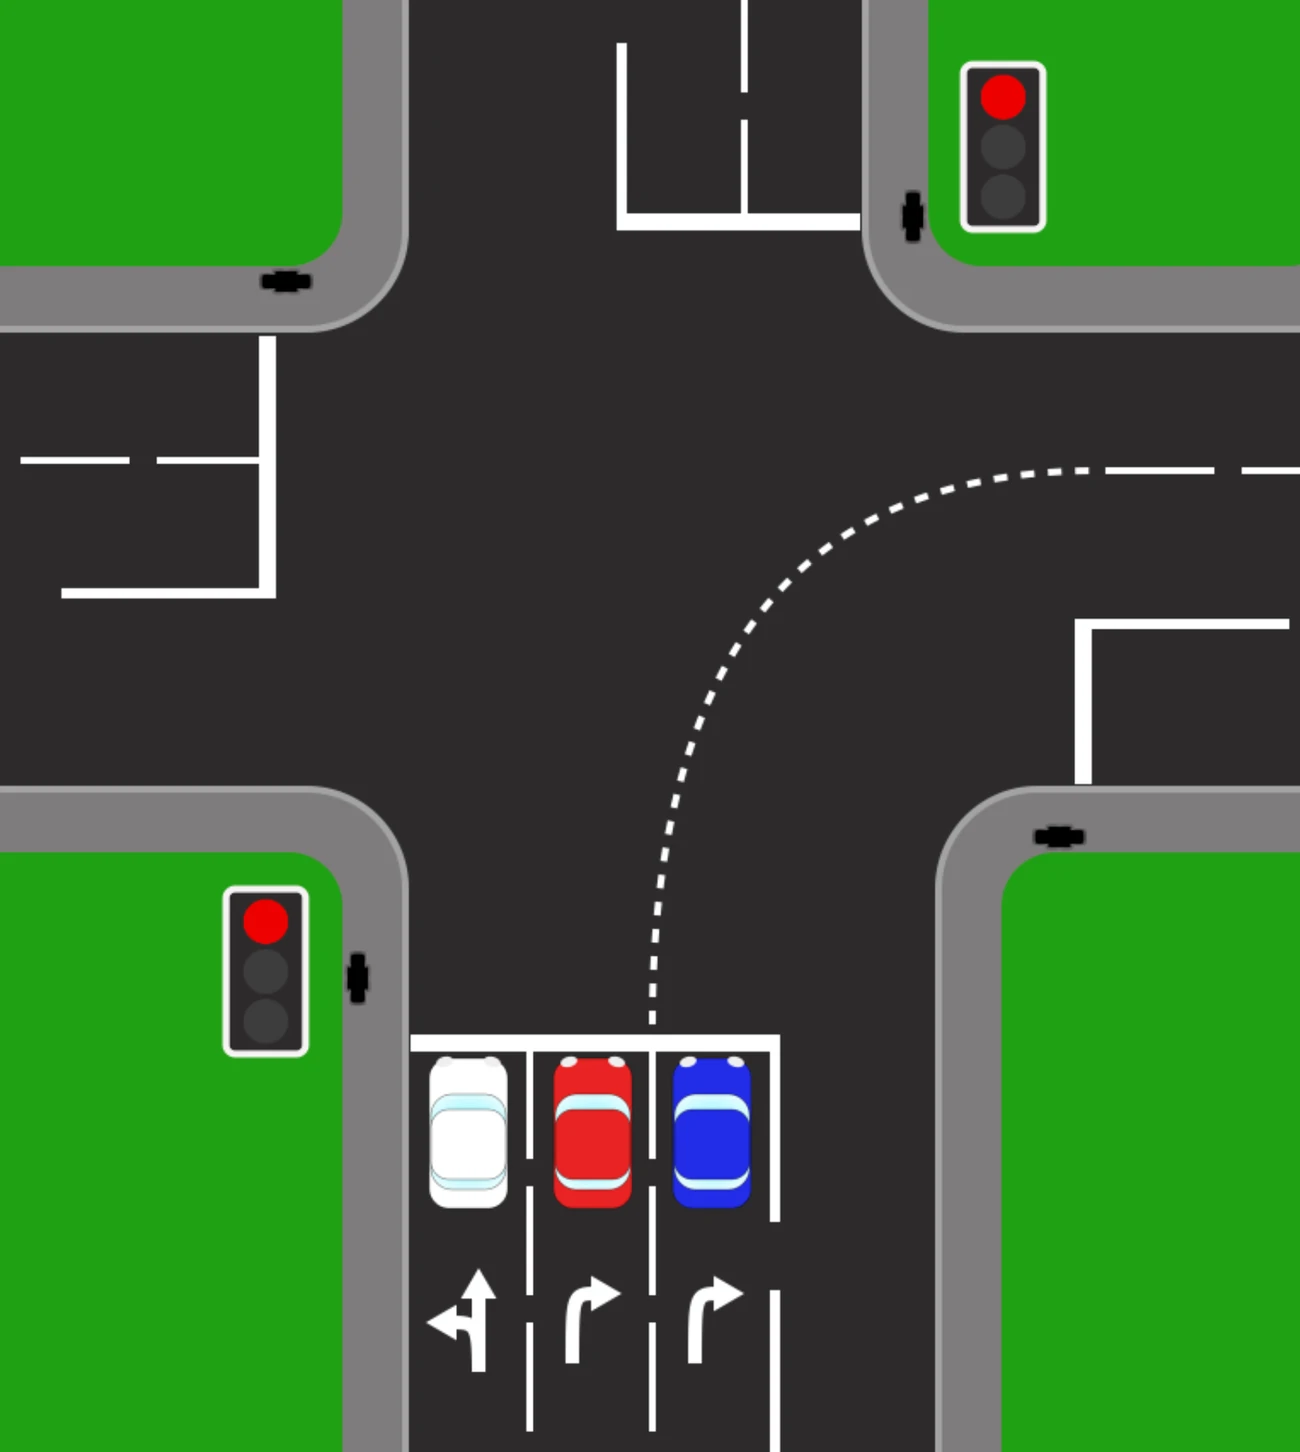
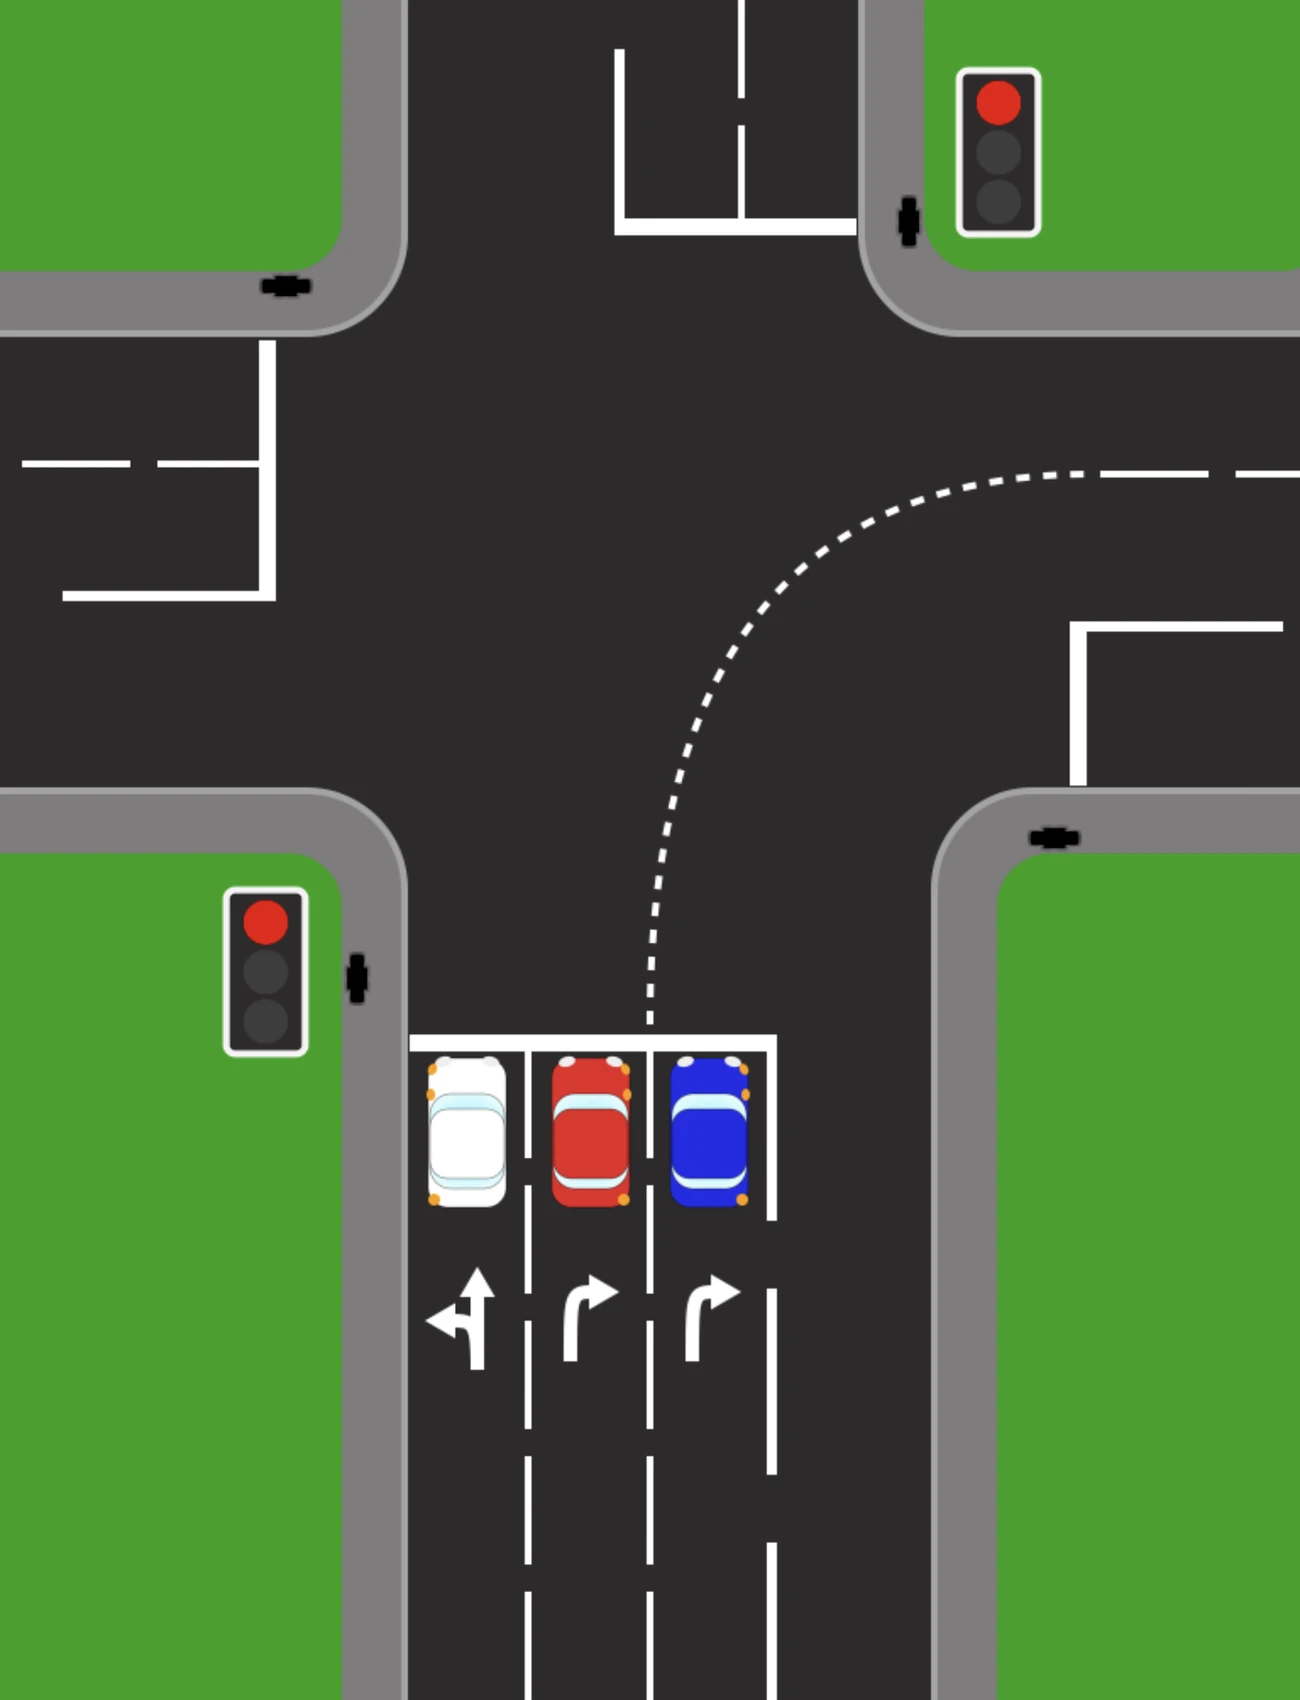
Replace the Double Right diagram and add a crop tool
The previous screenshot did not show the signals facing the waiting
cars, which is the point of the page. Same treatment as the others:
device chrome cropped, controls removed, both signals kept.

tools/crop_image.py trims an image that is already in place, in pixels
or percentages per edge, then rebuilds the manifest and the pages so
the width and height in the HTML follow the file - otherwise the old
dimensions stay in the markup and the layout jumps.

The image tools need Pillow, numpy and scipy, so adds a gitignored
.venv and tools/README.md explaining which commands need it. The build
and dev server remain plain stdlib.

diff --git a/lessons/guide/traffic-lights/left-filter/index.html b/lessons/guide/traffic-lights/left-filter/index.html
@@ -51,7 +51,7 @@
 <p>The blue car may go forward from the stop line on green, but even the left filter light does not grant prority at the give way line.</p>
 <p>This situation can seem counter-intuitive, because it is not usual to give priority to someone turning right, as in the case of the red car.</p>
 <p>It is important for the driver of the blue car to make at least one careful check before proceeding into the new road, including looking over the right shoulder if necessary to compensate for the car being angled towards the left.</p>
-<figure class="guide-figure"><img src="/assets/images/guide/traffic-lights/left-filter/left-filter-lane.webp" alt="A light-controlled junction with a separate left filter lane running behind a traffic island. A blue car waits in the filter lane with the filter signal beside it showing a green arrow, while a red car crosses the junction ahead." width="650" height="806" loading="lazy" decoding="async"></figure>
+<figure class="guide-figure"><img src="/assets/images/guide/traffic-lights/left-filter/left-filter-lane.webp" alt="A light-controlled junction with a separate left filter lane running behind a traffic island. A blue car waits in the filter lane with the filter signal beside it showing a green arrow, while a red car crosses the junction ahead." width="650" height="850" loading="lazy" decoding="async"></figure>
 
 <nav class="guide-pager" aria-label="Within this section"><a class="guide-pager__prev" href="/lessons/guide/traffic-lights/t-junction/"><span>Previous</span>T-Junction</a><a class="guide-pager__next" href="/lessons/guide/traffic-lights/double-right/"><span>Next</span>Double Right</a></nav>
     </main>

diff --git a/lessons/guide/traffic-lights/double-right/index.html b/lessons/guide/traffic-lights/double-right/index.html
@@ -49,7 +49,7 @@
       <h1>Double Right</h1>
 <p>When two lanes are provided for turning right, good lane discipline must be maintained throughout the turn. Be sure to indentify the correct lane to turn into, allowing space for others turning right next to you.</p>
 <p>There may or may not be guiding lines painted on the road to help with positioning. It&#x27;s helpful to be aware of the whole junction on approach, taking in as much information as possible about which lane goes where. This can help to avoid any surprises once the lights go green and everyone starts to move.</p>
-<figure class="guide-figure"><img src="/assets/images/guide/traffic-lights/double-right/double-right-turn-lanes.webp" alt="A light-controlled crossroads with two right-turn lanes. Arrows painted on the approach mark the lanes as left-and-ahead, right, and right; three cars wait at the stop line, and a dashed guide line curves across the junction." width="650" height="726" loading="lazy" decoding="async"></figure>
+<figure class="guide-figure"><img src="/assets/images/guide/traffic-lights/double-right/double-right-turn-lanes.webp" alt="A light-controlled crossroads with two right-turn lanes. Arrows painted on the approach mark the lanes as left-and-ahead, right, and right; three cars wait at the stop line with red signals facing them, and a dashed guide line curves across the junction from the right-turn lanes." width="650" height="850" loading="lazy" decoding="async"></figure>
 
 <nav class="guide-pager" aria-label="Within this section"><a class="guide-pager__prev" href="/lessons/guide/traffic-lights/left-filter/"><span>Previous</span>Left Filter</a></nav>
     </main>

diff --git a/lessons/guide/traffic-lights/turn-left/index.html b/lessons/guide/traffic-lights/turn-left/index.html
@@ -51,7 +51,7 @@
 <p>Where there is a side road on the left only, lanes can be used to keep traffic flowing efficiently. The right lane can be used for going ahead, leaving the left lane clear for those proceeding on the filter light (if there is one).</p>
 <p>When the left filter light goes off and only the round light is showing, all traffic is allowed to proceed, including those turning left.</p>
 <p>Always be aware of cyclists and other road users when turning.</p>
-<figure class="guide-figure"><img src="/assets/images/guide/traffic-lights/turn-left/turning-left-at-lights.webp" alt="A light-controlled junction from above. The signal on the corner shows red with a green left filter arrow lit beside it, so traffic turning left may go while everything else waits. A blue car is at the line and a yellow car crosses ahead of it." width="650" height="902" loading="lazy" decoding="async"></figure>
+<figure class="guide-figure"><img src="/assets/images/guide/traffic-lights/turn-left/turning-left-at-lights.webp" alt="A light-controlled junction from above. The signal on the corner shows red with a green left filter arrow lit beside it, so traffic turning left may go while everything else waits. A blue car is at the line and a yellow car crosses ahead of it." width="650" height="850" loading="lazy" decoding="async"></figure>
 
 <nav class="guide-pager" aria-label="Within this section"><a class="guide-pager__prev" href="/lessons/guide/traffic-lights/crossroads/"><span>Previous</span>Crossroads</a><a class="guide-pager__next" href="/lessons/guide/traffic-lights/turn-right/"><span>Next</span>Turn Right</a></nav>
     </main>

diff --git a/lessons/guide/traffic-lights/turn-right/index.html b/lessons/guide/traffic-lights/turn-right/index.html
@@ -49,7 +49,7 @@
       <h1>Turn Right</h1>
 <p>When turning right with no side road on the left, there is no need to worry about leaving space for oncoming traffic turning to their right.</p>
 <p>Even if the lanes are not marked with arrows, those going ahead would do well to stick to the left lane at this junction, to avoid getting stuck behind others waiting to turn right.</p>
-<figure class="guide-figure"><img src="/assets/images/guide/traffic-lights/turn-right/turning-right-at-lights.webp" alt="A light-controlled junction from above with the signal showing green. Cars are queued in two lanes on the approach road, and a side road opens to the right beyond the junction." width="650" height="866" loading="lazy" decoding="async"></figure>
+<figure class="guide-figure"><img src="/assets/images/guide/traffic-lights/turn-right/turning-right-at-lights.webp" alt="A light-controlled junction from above with the signal showing green. Cars are queued in two lanes on the approach road, and a side road opens to the right beyond the junction." width="650" height="850" loading="lazy" decoding="async"></figure>
 
 <nav class="guide-pager" aria-label="Within this section"><a class="guide-pager__prev" href="/lessons/guide/traffic-lights/turn-left/"><span>Previous</span>Turn Left</a><a class="guide-pager__next" href="/lessons/guide/traffic-lights/t-junction/"><span>Next</span>T-Junction</a></nav>
     </main>

diff --git a/lessons/guide/traffic-lights/t-junction/index.html b/lessons/guide/traffic-lights/t-junction/index.html
@@ -49,7 +49,7 @@
       <h1>T-Junction</h1>
 <p>On a T-junction, those turning right have no need to worry about oncoming traffic and can proceed as long as the lights are green.</p>
 <p>The filter lights control the flow of traffic, so road users can move in various directions without conflicting.</p>
-<figure class="guide-figure"><img src="/assets/images/guide/traffic-lights/t-junction/light-controlled-t-junction.webp" alt="A light-controlled T-junction from above. Two signals show a green filter arrow, and orange lines trace the paths of cars turning left and right out of the stem of the T." width="650" height="678" loading="lazy" decoding="async"></figure>
+<figure class="guide-figure"><img src="/assets/images/guide/traffic-lights/t-junction/light-controlled-t-junction.webp" alt="A light-controlled T-junction from above. Two signals show a green filter arrow, and orange lines trace the paths of cars turning left and right out of the stem of the T." width="650" height="850" loading="lazy" decoding="async"></figure>
 
 <nav class="guide-pager" aria-label="Within this section"><a class="guide-pager__prev" href="/lessons/guide/traffic-lights/turn-right/"><span>Previous</span>Turn Right</a><a class="guide-pager__next" href="/lessons/guide/traffic-lights/left-filter/"><span>Next</span>Left Filter</a></nav>
     </main>

diff --git a/tools/crop_image.py b/tools/crop_image.py
@@ -1,0 +1,55 @@
+#!/usr/bin/env python3
+"""Crop a guide image that is already in place, then refresh the manifest.
+
+Sizes may be pixels (120) or a percentage of that edge (10%). Only the edges
+you name are touched.
+
+  python3 tools/crop_image.py assets/images/guide/traffic-lights/turn-left/turning-left-at-lights.webp --top 12%
+  python3 tools/crop_image.py <path> --left 100 --right 100 --bottom 5%
+
+The width/height the page emits come from the file itself, so the manifest is
+rebuilt afterwards and the pages rewritten - otherwise the old dimensions would
+stay in the HTML and the layout would jump.
+
+This edits the shipped image. Re-running strip_app_controls.py from the
+original screenshot would overwrite it, so re-apply the crop if you do that.
+`git checkout <path>` restores the previous version.
+"""
+import argparse, os, subprocess, sys
+from PIL import Image
+
+def edge(value, extent):
+    if value is None: return 0
+    v = value.strip()
+    return round(extent * float(v[:-1]) / 100) if v.endswith('%') else int(v)
+
+def main():
+    ap = argparse.ArgumentParser()
+    ap.add_argument('path')
+    for side in ('top', 'bottom', 'left', 'right'):
+        ap.add_argument(f'--{side}', help='pixels or percentage, e.g. 120 or 10%%')
+    ap.add_argument('--quality', type=int, default=90)
+    a = ap.parse_args()
+
+    im = Image.open(a.path).convert('RGB')
+    w, h = im.size
+    t, b = edge(a.top, h), edge(a.bottom, h)
+    l, r = edge(a.left, w), edge(a.right, w)
+    if not (t or b or l or r):
+        sys.exit("nothing to crop - name at least one of --top/--bottom/--left/--right")
+    if t + b >= h or l + r >= w:
+        sys.exit(f"crop removes the whole image ({w}x{h})")
+
+    im.crop((l, t, w - r, h - b)).save(a.path, 'WEBP', quality=a.quality, method=6)
+    nw, nh = Image.open(a.path).size
+    print(f"{a.path}\n  {w}x{h} -> {nw}x{nh}  (displays {nw//2}x{nh//2})")
+
+    root = os.path.dirname(os.path.dirname(os.path.abspath(__file__)))
+    for step in ('check_images.py', 'build.py'):
+        r = subprocess.run([sys.executable, f'tools/{step}'], cwd=root,
+                           capture_output=True, text=True)
+        print('  ' + (r.stdout.strip().splitlines() or ['ok'])[0])
+        if r.returncode: sys.exit(r.stdout + r.stderr)
+
+if __name__ == '__main__':
+    main()

diff --git a/tools/README.md b/tools/README.md
@@ -1,0 +1,38 @@
+# tools
+
+The site is generated. `content/guide/*.md` is the source; everything under
+`lessons/guide/` is built output and should not be hand-edited.
+
+## Everyday use — no setup needed
+
+    python3 tools/serve.py          # serve on :8000 and rebuild on every change
+    python3 tools/build.py          # one-off build
+    python3 tools/check_build.py    # verify the built HTML
+
+`serve.py` is the one to leave running while writing: edit a `.md`, refresh the
+browser.
+
+## Image tools — need the virtualenv
+
+These use Pillow, numpy and scipy, so they run under `.venv` (gitignored):
+
+    python3 -m venv .venv && .venv/bin/pip install Pillow numpy scipy
+
+Then:
+
+    # remove the app's UI from screenshots, and crop device chrome
+    .venv/bin/python tools/strip_app_controls.py OUTDIR "Website New Images"/*.png
+
+    # crop an image that is already in place; sizes are pixels or percentages
+    .venv/bin/python tools/crop_image.py path/to/image.webp --top 12% --bottom 80
+
+    # verify every image reference resolves, and rebuild the size manifest
+    python3 tools/check_images.py
+
+`crop_image.py` edits the shipped image and then rebuilds, so the width and
+height in the HTML follow. `git checkout <path>` undoes a crop.
+
+## One-off
+
+`migrate.py` converted the old RapidWeaver document and refuses to run again.
+`rw_extract.py` and `resolve_images.py` support it and are kept for reference.

diff --git a/content/guide/traffic-lights/double-right.md b/content/guide/traffic-lights/double-right.md
@@ -12,4 +12,4 @@ When two lanes are provided for turning right, good lane discipline must be main
 There may or may not be guiding lines painted on the road to help with positioning. 
 It's helpful to be aware of the whole junction on approach, taking in as much information as possible about which lane goes where. This can help to avoid any surprises once the lights go green and everyone starts to move.
 
-![A light-controlled crossroads with two right-turn lanes. Arrows painted on the approach mark the lanes as left-and-ahead, right, and right; three cars wait at the stop line, and a dashed guide line curves across the junction.](double-right-turn-lanes.webp)
+![A light-controlled crossroads with two right-turn lanes. Arrows painted on the approach mark the lanes as left-and-ahead, right, and right; three cars wait at the stop line with red signals facing them, and a dashed guide line curves across the junction from the right-turn lanes.](double-right-turn-lanes.webp)
